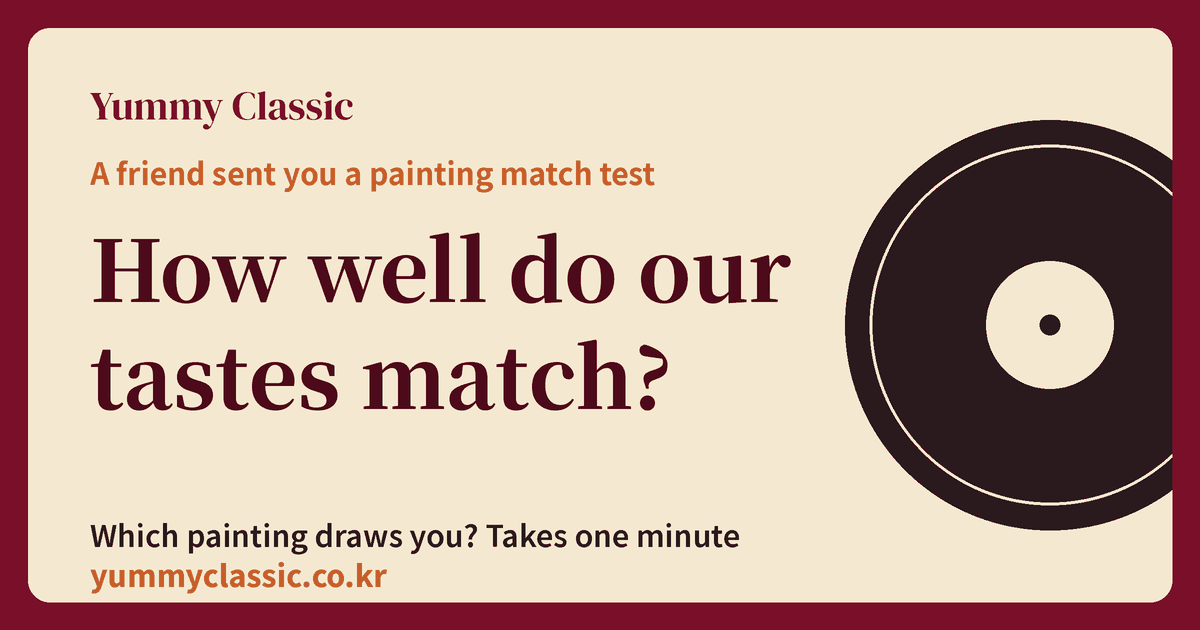
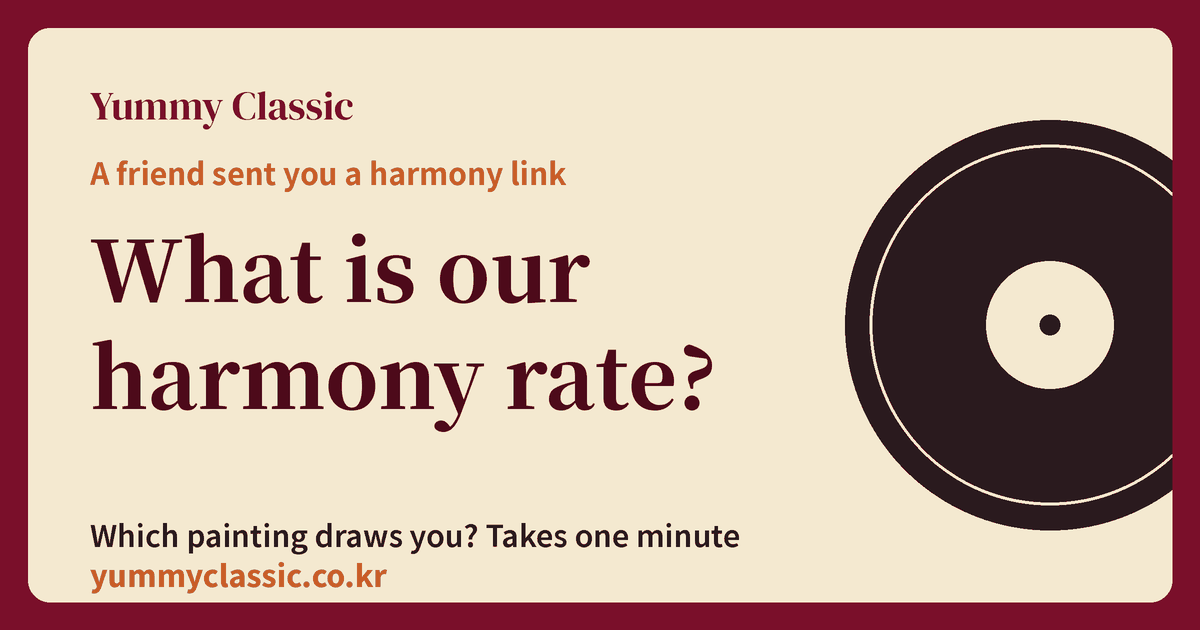
Wording: '궁합' becomes '화음', the % is the '화음률' (ko/en/ja, link previews)
Claude-Session: https://claude.ai/code/session_01TRYBqAiNpHtazXAtHncujs

diff --git a/index.html b/index.html
@@ -5471,18 +5471,18 @@
       fbPhYes: '어떤 점이 맞았는지 한 줄 남겨 주세요 (선택)', fbPhNo: '어떤 점이 달랐는지 한 줄 남겨 주세요 (선택)',
       fbSend: '보내기', fbThanks: '고마워요! 남겨 주신 의견으로 더 잘 맞게 고칠게요.',
       pctLine: '나와 같은 유형은 전체의 {p}% · 지금까지 {n}명이 해봤어요',
-      vsTop: '친구랑 그림 궁합 보기', storyTop: '스토리에 올리기',
-      vsInviteT: '친구랑 그림 궁합 보기', vsInviteS: '링크를 받은 친구가 그림을 고르면, 둘의 그림 궁합이 %로 나와요.',
-      vsSend: '궁합 테스트 보내기', vsShareText: '나랑 그림 궁합 몇 %일까? 그림 몇 장만 골라 봐!',
-      vsBanner: '‘{t}’ 친구가 그림 궁합 테스트를 보냈어요. 아래 그림을 고르면 둘의 궁합이 나와요.',
-      vsKick: '친구와 나의 그림 궁합', vsFriend: '친구', vsMe: '나', vsShared: '둘 다 고른 그림 {n}점',
-      vsSendBack: '이 궁합 결과 보내기', vsBackText: '우리 그림 궁합 {p}% — {l}. 너도 나랑 해볼래?',
-      vsLabels: ['같은 그림 앞에서 멈춰 서는 사이', '취향이 척척 통하는 사이', '서로의 플레이리스트가 궁금한 사이', '정반대라 더 재미있는 사이'],
+      vsTop: '친구랑 화음 보기', storyTop: '스토리에 올리기',
+      vsInviteT: '친구랑 화음 보기', vsInviteS: '링크를 받은 친구가 그림을 고르면, 두 분의 화음률이 나와요.',
+      vsSend: '화음 링크 보내기', vsShareText: '우리 둘의 화음은 어떨까? 그림 몇 장만 골라 봐!',
+      vsBanner: '‘{t}’ 친구가 화음 보기 링크를 보냈어요. 아래 그림을 고르면 두 분의 화음률이 나와요.',
+      vsKick: '친구와 나의 화음률', vsFriend: '친구', vsMe: '나', vsShared: '둘 다 고른 그림 {n}점',
+      vsSendBack: '이 화음 결과 보내기', vsBackText: '우리 둘의 화음률 {p}% — {l}. 너도 나랑 해볼래?',
+      vsLabels: ['완전한 화음 · 같은 그림 앞에서 멈춰 서는 사이', '아름다운 화음 · 취향이 잘 어울리는 사이', '잔잔한 하모니 · 서로의 곡이 궁금한 사이', '서로 다른 두 선율 · 그래서 더 풍성한 사이'],
       vsCopied: '링크를 복사했어요. 카카오톡 대화방에 붙여 넣어 보내 보세요.',
       shKakao: '카카오톡으로 보내기', shLine: '라인으로 보내기', shFb: '페이스북으로 공유하기', shX: 'X로 공유하기',
       shareImage: '인스타그램 피드로 공유하기', shareNative: '다른 앱으로 공유하기',
       shareStory: '인스타그램 스토리로 공유하기', storyKick: '나의 오늘 그림 유형', storyListen: '오늘 들을 곡',
-      storyCta: '나랑 그림 궁합 몇 %일까?', storyTap: '이미지가 준비됐어요. 한 번 더 누르면 바로 공유돼요.',
+      storyCta: '나와의 화음률은 몇 %일까?', storyTap: '이미지가 준비됐어요. 한 번 더 누르면 바로 공유돼요.',
       storySaved: '이미지를 저장했어요. 인스타 스토리에 올려 보세요!',
     });
     Object.assign(I18N.en, {
@@ -5490,18 +5490,18 @@
       fbPhYes: 'What felt right? One line (optional)', fbPhNo: 'What felt off? One line (optional)',
       fbSend: 'Send', fbThanks: 'Thank you! We’ll use this to make the result fit better.',
       pctLine: '{p}% of people share your type · {n} people so far',
-      vsTop: 'Check your painting match with a friend', storyTop: 'Post to your story',
-      vsInviteT: 'Painting match with a friend', vsInviteS: 'When your friend picks their paintings, you both see your match as a %.',
-      vsSend: 'Send the match test', vsShareText: 'How well do our tastes match? Just pick a few paintings!',
-      vsBanner: 'Your friend (“{t}”) sent you a painting match test. Pick the paintings below to see your match.',
-      vsKick: 'Painting match with your friend', vsFriend: 'Friend', vsMe: 'Me', vsShared: '{n} painting(s) you both picked',
-      vsSendBack: 'Share this match', vsBackText: 'Our painting match: {p}% — {l}. Want to try with me?',
-      vsLabels: ['You stop at the same painting', 'Your tastes click', 'Curious about each other’s playlist', 'Opposites — and that’s the fun'],
+      vsTop: 'See your harmony with a friend', storyTop: 'Post to your story',
+      vsInviteT: 'See your harmony with a friend', vsInviteS: 'When your friend picks their paintings, you’ll both see your harmony rate.',
+      vsSend: 'Send a harmony link', vsShareText: 'How do our tastes harmonize? Pick a few paintings!',
+      vsBanner: 'Your friend (“{t}”) sent you a harmony link. Pick the paintings below to see your harmony rate.',
+      vsKick: 'Your harmony rate', vsFriend: 'Friend', vsMe: 'Me', vsShared: '{n} painting(s) you both picked',
+      vsSendBack: 'Share this harmony', vsBackText: 'Our harmony rate is {p}% — {l}. Want to try with me?',
+      vsLabels: ['Perfect harmony', 'Beautiful harmony', 'Gentle harmony', 'Two different melodies, richer together'],
       vsCopied: 'Link copied. Paste it into a chat to send.',
       shKakao: 'Send via KakaoTalk', shLine: 'Send via LINE', shFb: 'Share on Facebook', shX: 'Share on X',
       shareImage: 'Share to Instagram feed', shareNative: 'Share with another app',
       shareStory: 'Share to Instagram Story', storyKick: 'MY PAINTING TYPE TODAY', storyListen: 'Today’s listening',
-      storyCta: 'How well do we match?', storyTap: 'Your image is ready. Tap once more to share.',
+      storyCta: 'What’s our harmony rate?', storyTap: 'Your image is ready. Tap once more to share.',
       storySaved: 'Image saved. Post it to your story!',
     });
     Object.assign(I18N.ja, {
@@ -5509,18 +5509,18 @@
       fbPhYes: 'どこが合っていたか一言どうぞ(任意)', fbPhNo: 'どこがちがったか一言どうぞ(任意)',
       fbSend: '送る', fbThanks: 'ありがとうございます!いただいた声で、もっと合うように直します。',
       pctLine: '同じタイプは全体の{p}% · これまで{n}人が参加',
-      vsTop: '友だちと絵の相性を見る', storyTop: 'ストーリーに載せる',
-      vsInviteT: '友だちと絵の相性を見る', vsInviteS: 'リンクを受け取った友だちが絵を選ぶと、ふたりの相性が%で出ます。',
-      vsSend: '相性テストを送る', vsShareText: '私と絵の相性は何%?絵を数枚選ぶだけ!',
-      vsBanner: '「{t}」の友だちから絵の相性テストが届きました。下の絵を選ぶと、ふたりの相性がわかります。',
-      vsKick: '友だちと私の絵の相性', vsFriend: '友だち', vsMe: '私', vsShared: 'ふたりとも選んだ絵 {n}点',
-      vsSendBack: 'この相性を送る', vsBackText: '私たちの絵の相性は{p}% — {l}。私ともやってみる?',
-      vsLabels: ['同じ絵の前で立ち止まるふたり', '好みがぴったり合うふたり', 'お互いのプレイリストが気になるふたり', '正反対だからこそ面白いふたり'],
+      vsTop: '友だちとの和音を見る', storyTop: 'ストーリーに載せる',
+      vsInviteT: '友だちとの和音を見る', vsInviteS: 'リンクを受け取った友だちが絵を選ぶと、ふたりの和音率が出ます。',
+      vsSend: '和音リンクを送る', vsShareText: 'ふたりの和音はどんな響き?絵を数枚選んでみて!',
+      vsBanner: '「{t}」の友だちから和音リンクが届きました。下の絵を選ぶと、ふたりの和音率がわかります。',
+      vsKick: '友だちと私の和音率', vsFriend: '友だち', vsMe: '私', vsShared: 'ふたりとも選んだ絵 {n}点',
+      vsSendBack: 'この和音を送る', vsBackText: 'ふたりの和音率は{p}% — {l}。私ともやってみる?',
+      vsLabels: ['完全な和音', '美しい和音', 'やさしいハーモニー', 'ちがう二つの旋律、だから豊か'],
       vsCopied: 'リンクをコピーしました。トークに貼り付けて送ってください。',
       shKakao: 'カカオトークで送る', shLine: 'LINEで送る', shFb: 'Facebookでシェア', shX: 'Xでシェア',
       shareImage: 'Instagramのフィードでシェア', shareNative: 'ほかのアプリでシェア',
       shareStory: 'Instagramのストーリーでシェア', storyKick: '今日の私の絵のタイプ', storyListen: '今日聴く曲',
-      storyCta: '私との絵の相性は何%?', storyTap: '画像の準備ができました。もう一度押すと共有できます。',
+      storyCta: '私との和音率は何%?', storyTap: '画像の準備ができました。もう一度押すと共有できます。',
       storySaved: '画像を保存しました。ストーリーに載せてみて!',
     });
     const YC_MATCH_ICON = '<svg class="yc-ic" viewBox="0 0 24 24" fill="none" stroke="currentColor" stroke-width="1.8" stroke-linecap="round" aria-hidden="true"><circle cx="12" cy="12" r="6.3"/><circle cx="12" cy="12" r="2"/><g transform="translate(3.6 5.6) rotate(-8)"><path d="M-1.6 0v3.2M0 0v3.2M1.6 0v3.2M-1.6 3.2c0 1.8 3.2 1.8 3.2 0M0 4.6V12"/></g><g transform="translate(20.4 5.6) rotate(8)"><path d="M-1.6 0v3.2M0 0v3.2M1.6 0v3.2M-1.6 3.2c0 1.8 3.2 1.8 3.2 0M0 4.6V12"/></g></svg>';

diff --git a/src/worker.js b/src/worker.js
@@ -185,11 +185,11 @@ const ADMIN_HASH = 'b549ab8e45bf613ffd6031b9aa8f32a0e0d85145dcb20eb4296c6c1ea851
 const SITE_LANGS = ['ko', 'en', 'ja'];
 const OG_TXT = {
   ko: { type: '나의 오늘 그림 유형은 ‘{t}’', typeDesc: '그림 몇 장만 고르면 오늘의 클래식이 나와요. 너는 어떤 그림에 끌려?',
-        match: '친구가 그림 궁합 테스트를 보냈어요', matchDesc: '그림 몇 장만 고르면 우리 둘의 그림 궁합이 나와요.' },
+        match: '친구가 화음 보기 링크를 보냈어요', matchDesc: '그림 몇 장만 고르면 우리 둘의 화음률이 나와요.' },
   en: { type: 'My painting type today: “{t}”', typeDesc: 'Pick a few paintings and today’s classical finds you. Which one draws you?',
-        match: 'A friend sent you a painting match test', matchDesc: 'Pick a few paintings and see how well your tastes match.' },
+        match: 'A friend sent you a harmony link', matchDesc: 'Pick a few paintings and see your harmony rate.' },
   ja: { type: '今日の私の絵のタイプは「{t}」', typeDesc: '絵を数枚選ぶだけで、今日のクラシックが見つかります。',
-        match: '友だちから絵の相性テストが届きました', matchDesc: '絵を数枚選ぶだけで、ふたりの相性がわかります。' },
+        match: '友だちから和音リンクが届きました', matchDesc: '絵を数枚選ぶだけで、ふたりの和音率がわかります。' },
 };
 
 export class Store extends DurableObject {
